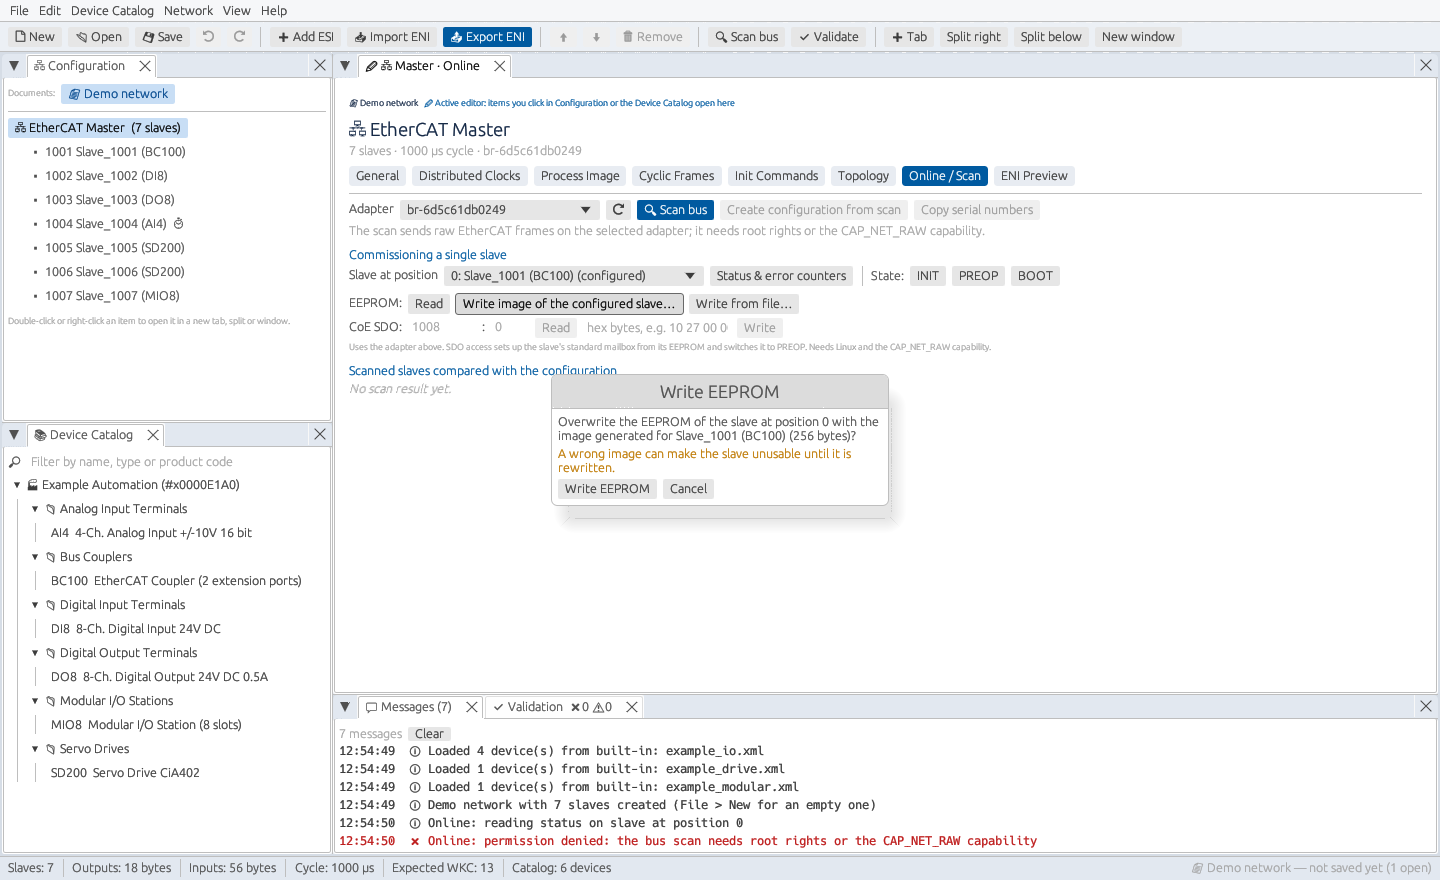
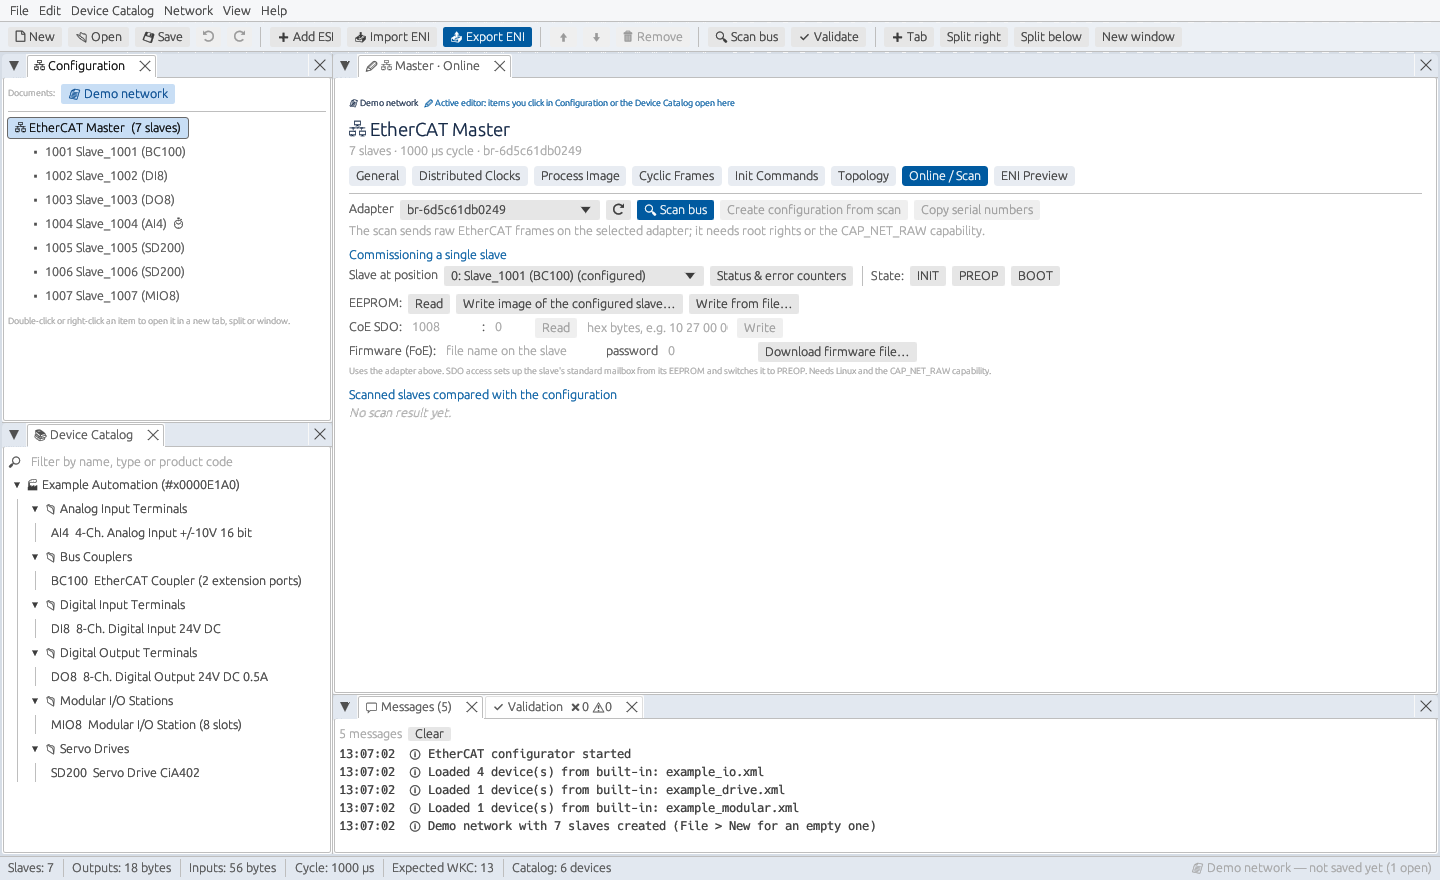
Document FoE firmware download, release 0.12.0
Describe the firmware download in the user guide and README, update the
roadmap and bump the version to 0.12.0.

diff --git a/ROADMAP.md b/ROADMAP.md
@@ -26,8 +26,8 @@ whether a generated ENI works on real hardware at all.
    segmented SDO, browsing the dictionary online (SDO info), DC delay measurement.
 6. **Other mailbox protocols in the ENI.** ~~SoE start-up IDNs and EoE IP
    settings~~ done in 0.7, ~~mailbox state polling (`MailboxStates`)~~ done in
-   0.11. Still open: FoE firmware download, and checking the EoE/SoE byte layout
-   against a real master (see item 2).
+   0.11, ~~FoE firmware download~~ done in 0.12 (on the Online page). Still open:
+   checking the EoE/SoE/FoE byte layout against real devices (see item 2).
 7. ~~**Correct topology handling for junctions.**~~ Done in 0.6: bus order and
    auto-increment addresses from the port wiring (D, B, C), automatic re-sorting,
    port-conflict and order checks, and wiring rebuilt from a scan.

diff --git a/docs/USER_GUIDE.md b/docs/USER_GUIDE.md
@@ -344,6 +344,12 @@ the configuration when you have not scanned):
   configurator sets up the slave's standard mailbox from its EEPROM and switches it
   to PREOP first. Expedited and normal transfers are supported; objects larger than
   one mailbox (segmented transfer) are not yet.
+- **Firmware (FoE)**: *Download firmware file…* sends a file to the slave with File
+  access over EtherCAT. Enter the file name the slave expects (defaults to the
+  file's name) and the password if the vendor uses one. The slave is switched to
+  BOOT using the bootstrap mailbox from its EEPROM, and the file is sent in
+  mailbox-sized packets, each acknowledged by the slave. The download asks for
+  confirmation first.
 
 ## Keyboard shortcuts
 

diff --git a/README.md b/README.md
@@ -38,7 +38,8 @@ ENI network information file (ETG.2100) for your EtherCAT master.
   images as `.bin` or Intel HEX.
 - **Online:** scan a real bus on Linux and compare it with the configuration, or
   create a configuration from the scan. Commission single slaves: INIT/PREOP/BOOT,
-  AL status code and error counters, CoE SDO read/write, EEPROM read and write.
+  AL status code and error counters, CoE SDO read/write, EEPROM read and write, and
+  firmware download over FoE.
 - **Validation:** address clashes, conflicting PDOs, sync manager sizes, frame
   size, DC settings and more.
 - **Hot connect:** mark groups of slaves that may be missing or plugged in while
